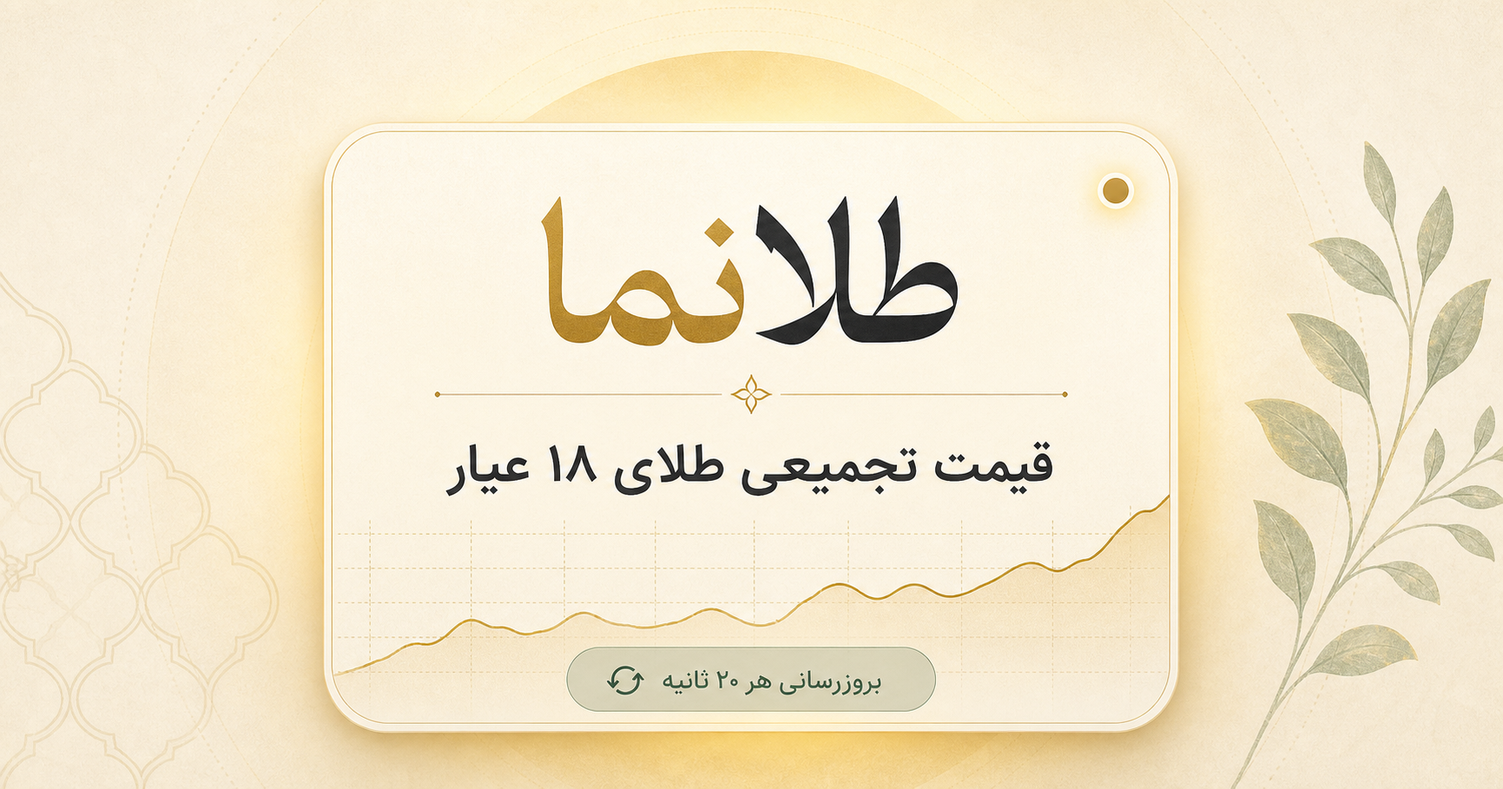
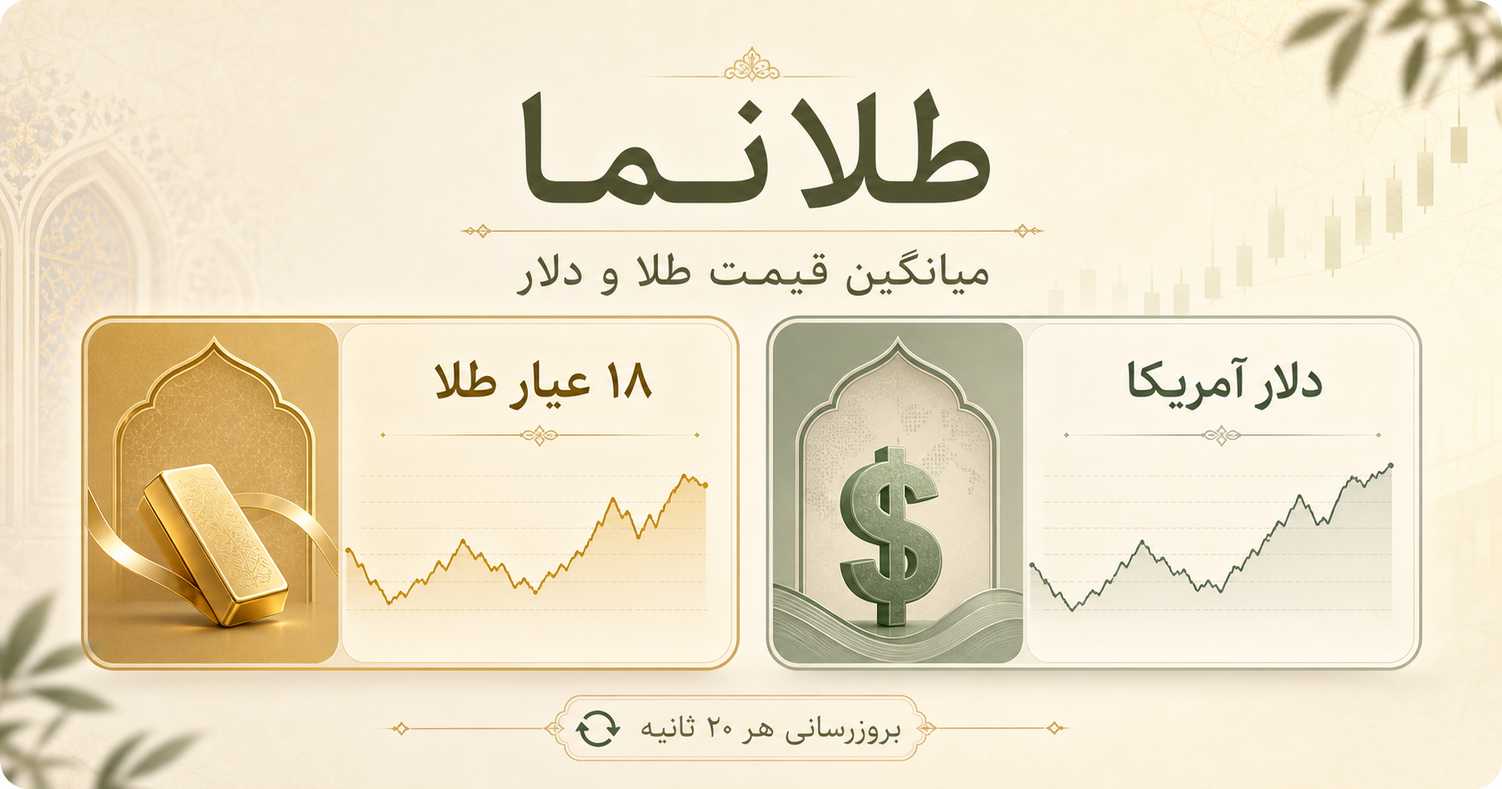
Add dollar average dashboard and Persian typography

diff --git a/app/page.tsx b/app/page.tsx
@@ -1,17 +1,32 @@
 "use client";
+
 import { useCallback, useEffect, useState } from "react";
-type PriceSource = { id: string; name: string; price: number | null; url: string; status: "live" | "unavailable"; updatedAt: string | null };
-type PriceResponse = { pooledPrice: number | null; sources: PriceSource[]; updatedAt: string; refreshAfterSeconds: number };
+
+type PriceSource = { id: string; name: string; price: number | null; url: string; status: "live" | "unavailable"; updatedAt: string | null; domain?: string; note?: string };
+type Market = { averagePrice: number | null; sources: PriceSource[] };
+type PriceResponse = { gold: Market; dollar: Market; updatedAt: string; refreshAfterSeconds: number };
 const REFRESH_SECONDS = 20;
-const sourceMeta: Record<string, { initial: string; color: string }> = { talasea: { initial: "ت", color: "talasea" }, daric: { initial: "د", color: "daric" }, milli: { initial: "م", color: "milli" } };
-const fallbackSources: PriceSource[] = [{ id: "talasea", name: "طلاسی", price: null, url: "https://talasea.ir/", status: "unavailable", updatedAt: null }, { id: "daric", name: "داریک", price: null, url: "https://daric.gold/", status: "unavailable", updatedAt: null }, { id: "milli", name: "میلی", price: null, url: "https://milli.gold/", status: "unavailable", updatedAt: null }];
-function toman(value: number | null) { return value === null || !Number.isFinite(value) ? "—" : `${new Intl.NumberFormat("fa-IR").format(Math.round(value))} تومان`; }
+const fallback: PriceResponse = { gold: { averagePrice: null, sources: [
+  { id: "talasea", name: "طلاسی", price: null, url: "https://talasea.ir/", status: "unavailable", updatedAt: null, domain: "talasea.ir" },
+  { id: "daric", name: "داریک", price: null, url: "https://daric.gold/", status: "unavailable", updatedAt: null, domain: "daric.gold" },
+  { id: "milli", name: "میلی", price: null, url: "https://milli.gold/", status: "unavailable", updatedAt: null, domain: "milli.gold" },
+] }, dollar: { averagePrice: null, sources: [
+  { id: "bitpin", name: "بیتپین", price: null, url: "https://bitpin.ir/", status: "unavailable", updatedAt: null, domain: "bitpin.ir" },
+  { id: "tabdeal", name: "تبدیل", price: null, url: "https://tabdeal.org/live/currency", status: "unavailable", updatedAt: null, domain: "tabdeal.org" },
+  { id: "nobitex", name: "نوبیتکس", price: null, url: "https://nobitex.ir/", status: "unavailable", updatedAt: null, domain: "nobitex.ir" },
+] }, updatedAt: "", refreshAfterSeconds: REFRESH_SECONDS };
+function amount(value: number | null, unit: string) { return value === null || !Number.isFinite(value) ? "—" : `${new Intl.NumberFormat("fa-IR").format(Math.round(value))} ${unit}`; }
 function timestamp(value: string | null) { const date = value ? new Date(value) : null; return !date || Number.isNaN(date.getTime()) ? "نامشخص" : new Intl.DateTimeFormat("fa-IR", { hour: "2-digit", minute: "2-digit", second: "2-digit" }).format(date); }
+function SourceLogo({ source }: { source: PriceSource }) { const [failed, setFailed] = useState(false); const domain = source.domain ?? new URL(source.url).hostname; return <span className="source-logo" aria-hidden="true">{!failed && <img src={`https://www.google.com/s2/favicons?domain=${encodeURIComponent(domain)}&sz=64`} alt="" onError={() => setFailed(true)} />}{failed && <b>{source.name.trim().slice(0, 1)}</b>}</span>; }
+function MarketPanel({ market, title, titleEnglish, unit, tone }: { market: Market; title: string; titleEnglish: string; unit: string; tone: "gold" | "dollar" }) {
+  const liveCount = market.sources.filter((source) => source.status === "live" && source.price !== null).length;
+  return <section className={`market-panel ${tone}`} aria-labelledby={`${tone}-title`}><div className="market-topline"><div><p className="market-kicker">{titleEnglish}</p><h2 id={`${tone}-title`}>{title}</h2></div><span className="market-symbol" aria-hidden="true">{tone === "gold" ? "Au" : "$"}</span></div><div className="market-average"><div><span>قیمت میانگین</span><strong>{amount(market.averagePrice, unit)}</strong></div><span className="source-count">{liveCount} از {market.sources.length} منبع فعال</span></div><div className="source-grid">{market.sources.map((source) => { const live = source.status === "live" && source.price !== null; return <article className="source-card" key={source.id}><div className="source-card-top"><SourceLogo source={source} /><span className={`source-status ${live ? "online" : "offline"}`}>{live ? "فعال" : "ناموجود"}</span></div><h3>{source.name}</h3><p className={live ? "source-price" : "source-price unavailable"}>{live ? amount(source.price, unit) : "قیمت در دسترس نیست"}</p>{source.note && !live && <p className="source-note">{source.note}</p>}<a href={source.url} target="_blank" rel="noreferrer">مشاهده منبع <span aria-hidden="true">↗</span></a></article>; })}</div></section>;
+}
 export default function Home() {
   const [data, setData] = useState<PriceResponse | null>(null); const [loading, setLoading] = useState(true); const [error, setError] = useState(false); const [remaining, setRemaining] = useState(REFRESH_SECONDS);
   const fetchPrices = useCallback(async () => { try { const response = await fetch("/api/prices", { cache: "no-store" }); if (!response.ok) throw new Error("Price service unavailable"); const nextData = await response.json() as PriceResponse; setData(nextData); setError(false); setRemaining(nextData.refreshAfterSeconds || REFRESH_SECONDS); } catch { setError(true); } finally { setLoading(false); } }, []);
-  useEffect(() => { void fetchPrices(); const refresh = window.setInterval(() => void fetchPrices(), REFRESH_SECONDS * 1000); return () => window.clearInterval(refresh); }, [fetchPrices]);
-  useEffect(() => { const ticker = window.setInterval(() => setRemaining((seconds) => seconds <= 1 ? REFRESH_SECONDS : seconds - 1), 1000); return () => window.clearInterval(ticker); }, []);
-  const sources = data?.sources ?? fallbackSources; const availableSources = sources.filter((source) => source.status === "live" && source.price !== null).length; const statusLabel = loading ? "در حال دریافت" : error ? "اتصال برقرار نیست" : availableSources ? "داده تازه" : "داده در دسترس نیست";
-  return <main className="dashboard-shell"><div className="ambient ambient-one" /><div className="ambient ambient-two" /><section className="dashboard" aria-labelledby="page-title"><header className="topbar"><div className="brand"><span className="brand-mark" aria-hidden="true">ط</span><span>طلانما</span></div><div className={`live-pill ${error ? "is-error" : ""}`} aria-live="polite"><span className="pulse" aria-hidden="true" />{statusLabel}</div></header><div className="intro"><p className="eyebrow">نمای لحظهای بازار طلا</p><h1 id="page-title">قیمت تجمیعی طلای ۱۸ عیار</h1><p>میانگین قیمتهای قابلدسترسی از سه منبع معتبر، هر ۲۰ ثانیه بهروزرسانی میشود.</p></div><section className="hero-price" aria-live="polite" aria-busy={loading}><div className="hero-heading"><span>قیمت تجمیعی</span><span className="source-count">{availableSources} از ۳ منبع فعال</span></div><strong className={loading ? "is-loading" : ""}>{loading ? "در حال دریافت…" : toman(data?.pooledPrice ?? null)}</strong><div className="price-footnote"><span>آخرین بروزرسانی: {timestamp(data?.updatedAt ?? null)}</span><button type="button" onClick={() => void fetchPrices()} aria-label="بروزرسانی قیمتها">↻ بروزرسانی</button></div></section>{error && <div className="notice" role="alert">دریافت قیمتها فعلاً ممکن نیست. هنگام بازگشت اتصال، اطلاعات خودکار بهروزرسانی میشود.</div>}<section className="sources-section" aria-labelledby="sources-title"><div className="section-heading"><h2 id="sources-title">منابع قیمت</h2><span>{remaining} ثانیه تا بروزرسانی</span></div><div className="source-grid">{sources.map((source) => { const meta = sourceMeta[source.id] ?? { initial: source.name[0], color: "generic" }; const isLive = source.status === "live" && source.price !== null; return <article className="source-card" key={source.id}><div className="source-card-top"><span className={`source-logo ${meta.color}`}>{meta.initial}</span><span className={`source-status ${isLive ? "online" : "offline"}`}>{isLive ? "فعال" : "ناموجود"}</span></div><h3>{source.name}</h3><p className={isLive ? "source-price" : "source-price unavailable"}>{isLive ? toman(source.price) : "قیمت در دسترس نیست"}</p><a href={source.url} target="_blank" rel="noreferrer" aria-label={`مشاهده ${source.name}`}>مشاهده منبع <span aria-hidden="true">↗</span></a></article>; })}</div></section><section className="method" aria-labelledby="method-title"><span className="method-icon" aria-hidden="true">◎</span><div><h2 id="method-title">روش محاسبه</h2><p>قیمت تجمیعی، میانگین سادهی قیمتهای زندهی منابع است؛ منابع ناموجود در محاسبه لحاظ نمیشوند.</p></div></section><footer><span>پایش مستقل بازار طلا</span><span>بروزرسانی خودکار هر ۲۰ ثانیه</span></footer></section></main>;
+  useEffect(() => { void fetchPrices(); const interval = window.setInterval(() => void fetchPrices(), REFRESH_SECONDS * 1000); return () => window.clearInterval(interval); }, [fetchPrices]);
+  useEffect(() => { const ticker = window.setInterval(() => setRemaining((value) => value <= 1 ? REFRESH_SECONDS : value - 1), 1000); return () => window.clearInterval(ticker); }, []);
+  const prices = data ?? fallback; const liveTotal = [...prices.gold.sources, ...prices.dollar.sources].filter((item) => item.status === "live" && item.price !== null).length; const statusLabel = loading ? "در حال دریافت" : error ? "اتصال برقرار نیست" : liveTotal ? "داده تازه" : "داده در دسترس نیست";
+  return <main className="dashboard-shell"><div className="ambient ambient-one" /><div className="ambient ambient-two" /><section className="dashboard" aria-labelledby="page-title"><header className="topbar"><div className="brand"><span className="brand-mark" aria-hidden="true">ط</span><span>طلانما</span></div><div className={`live-pill ${error ? "is-error" : ""}`} aria-live="polite"><span className="pulse" aria-hidden="true" />{statusLabel}</div></header><div className="intro"><p className="eyebrow">پایش لحظهای بازار ایران</p><h1 id="page-title">طلا و دلار، در یک نگاه</h1><p>قیمت میانگین منابع منتخب را ببینید؛ اطلاعات هر ۲۰ ثانیه تازه میشوند.</p></div><div className="update-bar" aria-live="polite"><span>آخرین بروزرسانی: {timestamp(data?.updatedAt ?? null)}</span><div><span>{remaining} ثانیه تا بروزرسانی</span><button type="button" onClick={() => void fetchPrices()} aria-label="بروزرسانی قیمتها">↻</button></div></div>{error && <div className="notice" role="alert">دریافت قیمتها فعلاً ممکن نیست؛ با بازگشت اتصال، اطلاعات خودکار بروزرسانی میشود.</div>}<div className="markets" aria-busy={loading}><MarketPanel market={prices.gold} title="طلای ۱۸ عیار" titleEnglish="18K GOLD · تومان / گرم" unit="تومان / گرم" tone="gold" /><MarketPanel market={prices.dollar} title="دلار آمریکا" titleEnglish="USD · تومان" unit="تومان" tone="dollar" /></div><section className="method" aria-labelledby="method-title"><span className="method-icon" aria-hidden="true">◎</span><div><h2 id="method-title">روش محاسبه</h2><p>قیمت میانگین، میانگین سادهی قیمتهای زنده است؛ منبع ناموجود در محاسبه لحاظ نمیشود.</p></div></section><footer><span>پایش مستقل بازار طلا و ارز</span><span>بروزرسانی خودکار هر ۲۰ ثانیه</span></footer></section></main>;
 }

diff --git a/app/globals.css b/app/globals.css
@@ -1,11 +1,2 @@
 @import "tailwindcss";
-
-:root { --ink: #1e1b16; --muted: #767066; --line: #e7e1d7; --gold-deep: #8f5e0e; }
-* { box-sizing: border-box; } html, body { min-height: 100%; } body { margin: 0; color: var(--ink); background: #f3f0e9; font-family: Tahoma, Arial, sans-serif; } button, a { font: inherit; }
-.dashboard-shell { min-height: 100vh; padding: 28px 18px; position: relative; overflow: hidden; }.dashboard { width: min(100%, 960px); margin: 0 auto; position: relative; z-index: 1; }.ambient { position: fixed; width: 420px; height: 420px; border-radius: 50%; opacity: .48; pointer-events: none; }.ambient-one { top: -220px; right: -150px; background: radial-gradient(circle, #efd795 0, rgba(239,215,149,0) 69%); }.ambient-two { bottom: -240px; left: -130px; background: radial-gradient(circle, #dce7d7 0, rgba(220,231,215,0) 68%); }
-.topbar { display:flex; align-items:center; justify-content:space-between; padding:0 4px; }.brand { display:flex; align-items:center; gap:9px; font-size:17px; font-weight:800; }.brand-mark { display:grid; place-items:center; width:31px; height:31px; color:#fff; background:linear-gradient(135deg,#d6a441,#9b660e); border-radius:10px; }.live-pill { display:inline-flex; align-items:center; gap:7px; border:1px solid #d6e5d5; background:#f7fcf5; color:#39703f; font-size:12px; font-weight:700; padding:7px 10px; border-radius:99px; }.pulse { width:7px; height:7px; background:#53aa5f; border-radius:50%; box-shadow:0 0 0 3px #d9f0da; }.live-pill.is-error { color:#a24d3b; border-color:#efd9d2; background:#fff8f5; }.is-error .pulse { background:#ce6249; box-shadow:0 0 0 3px #f8ded6; }
-.intro { text-align:center; max-width:650px; margin:72px auto 30px; }.eyebrow { color:var(--gold-deep); margin:0 0 10px; font-weight:700; font-size:14px; }.intro h1 { margin:0; font-size:clamp(27px,5vw,44px); letter-spacing:-1.7px; line-height:1.25; }.intro p:last-child { color:var(--muted); margin:14px auto 0; line-height:1.85; font-size:14px; }
-.hero-price { border:1px solid #e6d7b5; background:linear-gradient(135deg,#fffdf7,#fff9e9); border-radius:24px; padding:30px clamp(21px,5vw,44px) 23px; box-shadow:0 20px 45px #634d2010, inset 0 1px #fff; }.hero-heading,.price-footnote,.section-heading { display:flex; justify-content:space-between; align-items:center; gap:12px; }.hero-heading { color:#6d604b; font-size:14px; font-weight:700; }.source-count { color:#9a8257; font-size:12px; font-weight:500; }.hero-price strong { display:block; font-size:clamp(34px,6vw,57px); letter-spacing:-2.4px; margin:19px 0 17px; color:#292114; }.hero-price strong.is-loading { color:#a79e8e; font-size:28px; }.price-footnote { border-top:1px solid #eee2c9; padding-top:14px; color:#857b6b; font-size:12px; }.price-footnote button { border:0; background:transparent; color:#9a650b; padding:2px; cursor:pointer; font-weight:700; }
-.notice { margin-top:16px; border:1px solid #f0d2c8; background:#fff8f5; color:#934735; padding:12px 15px; border-radius:13px; font-size:13px; line-height:1.7; }.sources-section { margin-top:38px; }.section-heading { margin-bottom:14px; }.section-heading h2,.method h2 { font-size:17px; margin:0; }.section-heading span { color:#8d867a; font-size:12px; }.source-grid { display:grid; grid-template-columns:repeat(3,1fr); gap:14px; }.source-card { background:rgba(255,253,249,.88); border:1px solid var(--line); border-radius:18px; padding:17px; box-shadow:0 8px 22px #38301908; }.source-card-top { display:flex; justify-content:space-between; align-items:center; }.source-logo { display:grid; place-items:center; width:33px; height:33px; border-radius:10px; color:#fff; font-weight:800; font-size:17px; }.source-logo.talasea { background:#18243c; }.source-logo.daric { background:#b37b1c; }.source-logo.milli { background:#1d887e; }.source-logo.generic { background:#777; }.source-status { font-size:11px; font-weight:700; padding:4px 7px; border-radius:99px; }.online { color:#35753d; background:#edf8ee; }.offline { color:#937565; background:#f9efea; }.source-card h3 { font-size:15px; margin:17px 0 9px; }.source-price { font-weight:800; font-size:17px; white-space:nowrap; margin:0 0 15px; }.source-price.unavailable { font-size:13px; color:#968e82; font-weight:500; padding-top:3px; }.source-card a { color:#8c631c; font-size:12px; font-weight:700; text-decoration:none; }
-.method { margin-top:32px; display:flex; gap:14px; padding:18px; border-radius:17px; background:#ece9e1aa; color:#59544b; }.method-icon { color:#a8771a; font-size:25px; line-height:1; }.method p { margin:6px 0 0; font-size:13px; line-height:1.8; } footer { margin:28px 0 8px; display:flex; justify-content:space-between; color:#958e82; font-size:11px; }
-@media (max-width:620px) { .dashboard-shell { padding:20px 14px; }.intro { margin-top:48px; }.source-grid { grid-template-columns:1fr; }.source-card { padding:15px 17px; }.source-card h3 { margin-top:11px; }.source-price { margin-bottom:9px; }.hero-price { border-radius:19px; }.price-footnote { align-items:flex-start; flex-direction:column; gap:7px; }.method { align-items:flex-start; } footer { flex-direction:column; gap:5px; } }
+:root{--ink:#201d19;--muted:#777168;--line:#e8e2d8;--paper:rgba(255,254,251,.82)}*{box-sizing:border-box}html,body{min-height:100%}body{margin:0;color:var(--ink);background:#f5f2ec;font-family:var(--font-vazirmatn),Tahoma,sans-serif}button,a{font:inherit}.dashboard-shell{min-height:100vh;padding:27px 18px;position:relative;overflow:hidden}.dashboard{width:min(100%,1020px);margin:auto;position:relative;z-index:1}.ambient{position:fixed;width:490px;height:490px;border-radius:50%;pointer-events:none;opacity:.54}.ambient-one{top:-260px;right:-150px;background:radial-gradient(circle,#f1d999,transparent 68%)}.ambient-two{bottom:-270px;left:-160px;background:radial-gradient(circle,#cfe6de,transparent 68%)}.topbar,.update-bar,.market-topline,.market-average,.source-card-top,footer{display:flex;align-items:center;justify-content:space-between;gap:12px}.brand{display:flex;align-items:center;gap:9px;font-size:17px;font-weight:900}.brand-mark{display:grid;place-items:center;inline-size:33px;block-size:33px;color:#fff;background:linear-gradient(135deg,#e0b34d,#92600f);border-radius:11px;box-shadow:0 7px 16px #966c242a}.live-pill{display:flex;align-items:center;gap:7px;border:1px solid #d8e7d7;background:#f9fdf8;color:#397443;font-size:12px;font-weight:700;padding:7px 11px;border-radius:99px}.pulse{inline-size:7px;block-size:7px;border-radius:50%;background:#53ad60;box-shadow:0 0 0 3px #d9f0da}.live-pill.is-error{color:#a24d3b;background:#fff8f5;border-color:#efd9d2}.is-error .pulse{background:#ce6249;box-shadow:0 0 0 3px #f8ded6}.intro{text-align:center;max-width:640px;margin:66px auto 24px}.eyebrow{margin:0 0 9px;color:#916011;font-size:13px;font-weight:800;letter-spacing:.2px}.intro h1{margin:0;font-size:clamp(29px,5vw,47px);line-height:1.28;letter-spacing:-1.7px}.intro p:last-child{color:var(--muted);margin:12px auto 0;font-size:14px;line-height:1.95}.update-bar{padding:11px 15px;margin-bottom:16px;border:1px solid #e8e1d6;background:#fbfaf7a8;border-radius:14px;color:#80796d;font-size:12px}.update-bar>div{display:flex;align-items:center;gap:9px}.update-bar button{display:grid;place-items:center;inline-size:25px;block-size:25px;padding:0;border:0;border-radius:8px;color:#9c6a18;background:#f8eed5;cursor:pointer;font-size:17px}.notice{margin-bottom:16px;padding:12px 15px;border:1px solid #f0d2c8;border-radius:13px;background:#fff8f5;color:#934735;font-size:13px;line-height:1.7}.markets{display:grid;grid-template-columns:1fr 1fr;gap:17px}.market-panel{min-width:0;padding:23px;border:1px solid var(--line);border-radius:24px;background:var(--paper);box-shadow:0 18px 40px #392f2010}.market-panel.gold{background:linear-gradient(145deg,#fffdf7,#fff8e8);border-color:#e9d9b4}.market-panel.dollar{background:linear-gradient(145deg,#fbfffd,#eef8f4);border-color:#cfe5dc}.market-kicker{margin:0 0 4px;color:#8a8172;font-size:10px;direction:ltr;text-align:right;letter-spacing:.7px}.market-topline h2{margin:0;font-size:19px}.market-symbol{display:grid;place-items:center;inline-size:39px;block-size:39px;border-radius:13px;font-weight:900;font-family:Arial,sans-serif}.gold .market-symbol{color:#976512;background:#faefd4}.dollar .market-symbol{color:#287362;background:#dff2e9}.market-average{align-items:end;min-height:103px;margin:21px 0 18px;padding:17px;border-radius:17px;background:#ffffff9e;border:1px solid #ffffffb8}.market-average div{min-width:0}.market-average div>span{display:block;color:#766e61;font-size:12px;font-weight:700}.market-average strong{display:block;margin-top:6px;font-size:clamp(24px,3.1vw,33px);line-height:1.25;white-space:nowrap;letter-spacing:-1.4px}.source-count{flex:0 0 auto;color:#867c6d;font-size:10px;padding:5px 7px;border-radius:99px;background:#f0ede6}.source-grid{display:grid;grid-template-columns:repeat(3,minmax(0,1fr));gap:8px}.source-card{min-width:0;padding:12px;border:1px solid #e9e3d9;border-radius:15px;background:#fffdfad9}.source-logo{display:grid;place-items:center;overflow:hidden;inline-size:30px;block-size:30px;border-radius:9px;color:#fff;background:#706b63;font-size:14px}.source-logo img{inline-size:100%;block-size:100%;object-fit:cover}.source-status{font-size:9px;font-weight:800;padding:4px 6px;border-radius:99px}.online{color:#35753d;background:#edf8ee}.offline{color:#937565;background:#f9efea}.source-card h3{overflow:hidden;margin:12px 0 5px;font-size:13px;text-overflow:ellipsis;white-space:nowrap}.source-price{margin:0 0 10px;font-size:13px;font-weight:900;line-height:1.5}.source-price.unavailable{min-height:39px;padding-top:3px;color:#938b80;font-size:11px;font-weight:500}.source-note{margin:-5px 0 8px;color:#9a725e;font-size:10px;line-height:1.45}.source-card a{color:#88601c;text-decoration:none;font-size:10px;font-weight:800}.dollar .source-card a{color:#287362}.method{display:flex;gap:13px;margin-top:23px;padding:17px;border-radius:17px;background:#eae7dfa8;color:#5e584f}.method-icon{color:#aa781d;font-size:25px;line-height:1}.method h2{margin:0;font-size:15px}.method p{margin:5px 0 0;font-size:12px;line-height:1.8}footer{margin:27px 0 8px;color:#958e82;font-size:11px}@media (max-width:760px){.markets{grid-template-columns:1fr}.market-average strong{font-size:31px}}@media (max-width:430px){.dashboard-shell{padding:20px 13px}.intro{margin-top:45px}.intro h1{font-size:30px}.market-panel{padding:18px}.source-card{padding:11px}.update-bar{align-items:flex-start;flex-direction:column}.market-average{min-height:93px;margin-top:17px}.market-average strong{font-size:27px}.method{align-items:flex-start}footer{align-items:flex-start;flex-direction:column;gap:5px}}

diff --git a/app/api/prices/route.ts b/app/api/prices/route.ts
@@ -1,65 +1,38 @@
 import { NextResponse } from "next/server";
 
-type Source = {
-  id: "talasea" | "daric" | "milli";
-  name: string;
-  url: string;
-  price: number | null;
-  status: "live" | "unavailable";
-  updatedAt: string | null;
-};
-
+type Source = { id: string; name: string; url: string; domain: string; note: string; price: number | null; status: "live" | "unavailable"; updatedAt: string | null };
 const now = () => new Date().toISOString();
 
 async function requestJson(url: string) {
-  const response = await fetch(url, {
-    headers: { Accept: "application/json", "User-Agent": "GoldPool/1.0" },
-    signal: AbortSignal.timeout(8_000),
-  });
+  const response = await fetch(url, { headers: { Accept: "application/json", "User-Agent": "Talnama/1.1" }, signal: AbortSignal.timeout(8_000) });
   if (!response.ok) throw new Error(`Upstream returned ${response.status}`);
   return response.json() as Promise<unknown>;
 }
+function unavailable(source: Omit<Source, "price" | "status" | "updatedAt">): Source { return { ...source, price: null, status: "unavailable", updatedAt: null }; }
 
 async function daric(): Promise<Source> {
-  const source: Source = { id: "daric", name: "داریک", url: "https://daric.gold/", price: null, status: "unavailable", updatedAt: null };
-  try {
-    const data = await requestJson("https://apisc.daric.gold/loan/api/v1/User/Collateral/GetGoldlPrice") as { Data?: { BestBuyPrice?: string; BestSellPrice?: string }; IsSuccess?: boolean };
-    const buy = Number(data.Data?.BestBuyPrice);
-    const sell = Number(data.Data?.BestSellPrice);
-    const price = (buy + sell) / 2;
-    if (!data.IsSuccess || !Number.isFinite(price) || price <= 0) throw new Error("Invalid Daric price");
-    return { ...source, price: Math.round(price), status: "live", updatedAt: now() };
-  } catch {
-    return source;
-  }
+  const base = { id: "daric", name: "داریک", url: "https://daric.gold/", domain: "daric.gold", note: "طلای ۱۸ عیار · تومان/گرم" };
+  try { const data = await requestJson("https://apisc.daric.gold/loan/api/v1/User/Collateral/GetGoldlPrice") as { Data?: { BestBuyPrice?: string; BestSellPrice?: string }; IsSuccess?: boolean }; const price = (Number(data.Data?.BestBuyPrice) + Number(data.Data?.BestSellPrice)) / 2; if (!data.IsSuccess || !Number.isFinite(price) || price <= 0) throw new Error(); return { ...base, price: Math.round(price), status: "live", updatedAt: now() }; } catch { return unavailable(base); }
 }
-
 async function milli(): Promise<Source> {
-  const source: Source = { id: "milli", name: "میلی", url: "https://milli.gold/", price: null, status: "unavailable", updatedAt: null };
-  try {
-    const data = await requestJson("https://milli.gold/api/v1/public/milli-price/external") as { data?: { price18?: number; date?: string } };
-    const rialPerMilligram = Number(data.data?.price18);
-    if (!Number.isFinite(rialPerMilligram) || rialPerMilligram <= 0) throw new Error("Invalid Milli price");
-    // Milli's external feed is IRR per milligram. Normalize to toman per gram.
-    return { ...source, price: Math.round(rialPerMilligram * 100), status: "live", updatedAt: data.data?.date ?? now() };
-  } catch {
-    return source;
-  }
+  const base = { id: "milli", name: "میلی", url: "https://milli.gold/", domain: "milli.gold", note: "طلای ۱۸ عیار · تومان/گرم" };
+  try { const data = await requestJson("https://milli.gold/api/v1/public/milli-price/external") as { data?: { price18?: number; date?: string } }; const raw = Number(data.data?.price18); if (!Number.isFinite(raw) || raw <= 0) throw new Error(); return { ...base, price: Math.round(raw * 100), status: "live", updatedAt: data.data?.date ?? now() }; } catch { return unavailable(base); }
 }
-
-async function talasea(): Promise<Source> {
-  // Talasea currently protects its public page behind an anti-bot challenge.
-  // Keep it visible in the pool and never substitute an inferred price.
-  return { id: "talasea", name: "طلاسی", url: "https://talasea.ir/", price: null, status: "unavailable", updatedAt: null };
+async function talasea(): Promise<Source> { return unavailable({ id: "talasea", name: "طلاسی", url: "https://talasea.ir/", domain: "talasea.ir", note: "مسیر دادهٔ عمومی پاسخ معتبر نمیدهد" }); }
+async function bitpin(): Promise<Source> {
+  const base = { id: "bitpin", name: "بیتپین", url: "https://bitpin.ir/", domain: "bitpin.ir", note: "تتر · معادل دلار · تومان" };
+  try { const data = await requestJson("https://api.bitpin.ir/v1/mkt/markets/") as { results?: Array<{ code?: string; price?: string; order_book_info?: { price?: string; time?: string } }> }; const quote = data.results?.find((item) => item.code === "USDT_IRT"); const price = Number(quote?.order_book_info?.price ?? quote?.price); if (!Number.isFinite(price) || price <= 0) throw new Error(); return { ...base, price: Math.round(price), status: "live", updatedAt: quote?.order_book_info?.time ?? now() }; } catch { return unavailable(base); }
 }
-
+async function tabdeal(): Promise<Source> {
+  const base = { id: "tabdeal", name: "تبدیل", url: "https://tabdeal.org/live/currency", domain: "tabdeal.org", note: "دلار آمریکا · تومان" };
+  try { const data = await requestJson("https://api-web.tabdeal.org/plots/fiat-currency/converter/") as Array<{ symbol?: string; price_in_irt?: string; last_updated_at?: string }>; const quote = data.find((item) => item.symbol === "USD"); const price = Number(quote?.price_in_irt); if (!Number.isFinite(price) || price <= 0) throw new Error(); return { ...base, price: Math.round(price), status: "live", updatedAt: quote?.last_updated_at ?? now() }; } catch { return unavailable(base); }
+}
+async function nobitex(): Promise<Source> {
+  const base = { id: "nobitex", name: "نوبیتکس", url: "https://nobitex.ir/", domain: "nobitex.ir", note: "تتر · معادل دلار · تومان" };
+  try { const data = await requestJson("https://apiv2.nobitex.ir/market/stats") as { stats?: Record<string, { latest?: string }> }; const price = Number(data.stats?.["usdt-rls"]?.latest) / 10; if (!Number.isFinite(price) || price <= 0) throw new Error(); return { ...base, price: Math.round(price), status: "live", updatedAt: now() }; } catch { return unavailable(base); }
+}
+function market(sources: Source[]) { const prices = sources.flatMap((source) => source.price === null ? [] : [source.price]); return { averagePrice: prices.length ? Math.round(prices.reduce((sum, price) => sum + price, 0) / prices.length) : null, sources }; }
 export async function GET() {
-  const sources = await Promise.all([talasea(), daric(), milli()]);
-  const livePrices = sources.flatMap((source) => source.price === null ? [] : [source.price]);
-  const pooledPrice = livePrices.length ? Math.round(livePrices.reduce((sum, price) => sum + price, 0) / livePrices.length) : null;
-
-  return NextResponse.json(
-    { pooledPrice, sources, updatedAt: now(), refreshAfterSeconds: 20 },
-    { headers: { "Cache-Control": "no-store, max-age=0" } },
-  );
+  const [goldSources, dollarSources] = await Promise.all([Promise.all([talasea(), daric(), milli()]), Promise.all([bitpin(), tabdeal(), nobitex()])]);
+  return NextResponse.json({ gold: market(goldSources), dollar: market(dollarSources), updatedAt: now(), refreshAfterSeconds: 20 }, { headers: { "Cache-Control": "no-store, max-age=0" } });
 }

diff --git a/app/layout.tsx b/app/layout.tsx
@@ -1,5 +1,8 @@
 import { headers } from "next/headers";
+import { Vazirmatn } from "next/font/google";
 import "./globals.css";
+
+const vazirmatn = Vazirmatn({ subsets: ["arabic"], variable: "--font-vazirmatn" });
 
 export default async function RootLayout({
   children,
@@ -10,8 +13,8 @@ export default async function RootLayout({
   const host = requestHeaders.get("x-forwarded-host") ?? requestHeaders.get("host") ?? "localhost:3000";
   const protocol = requestHeaders.get("x-forwarded-proto") ?? "https";
   const image = `${protocol}://${host}/og.png`;
-  const title = "طلانما | قیمت تجمیعی طلا";
-  const description = "پایش قیمت تجمیعی طلای ۱۸ عیار از منابع منتخب.";
+  const title = "طلانما | قیمت میانگین طلا و دلار";
+  const description = "پایش قیمت میانگین طلای ۱۸ عیار و دلار از منابع منتخب.";
 
   return (
     <html lang="fa" dir="rtl">
@@ -27,7 +30,7 @@ export default async function RootLayout({
         <meta name="twitter:description" content={description} />
         <meta name="twitter:image" content={image} />
       </head>
-      <body>{children}</body>
+      <body className={vazirmatn.variable}>{children}</body>
     </html>
   );
 }
